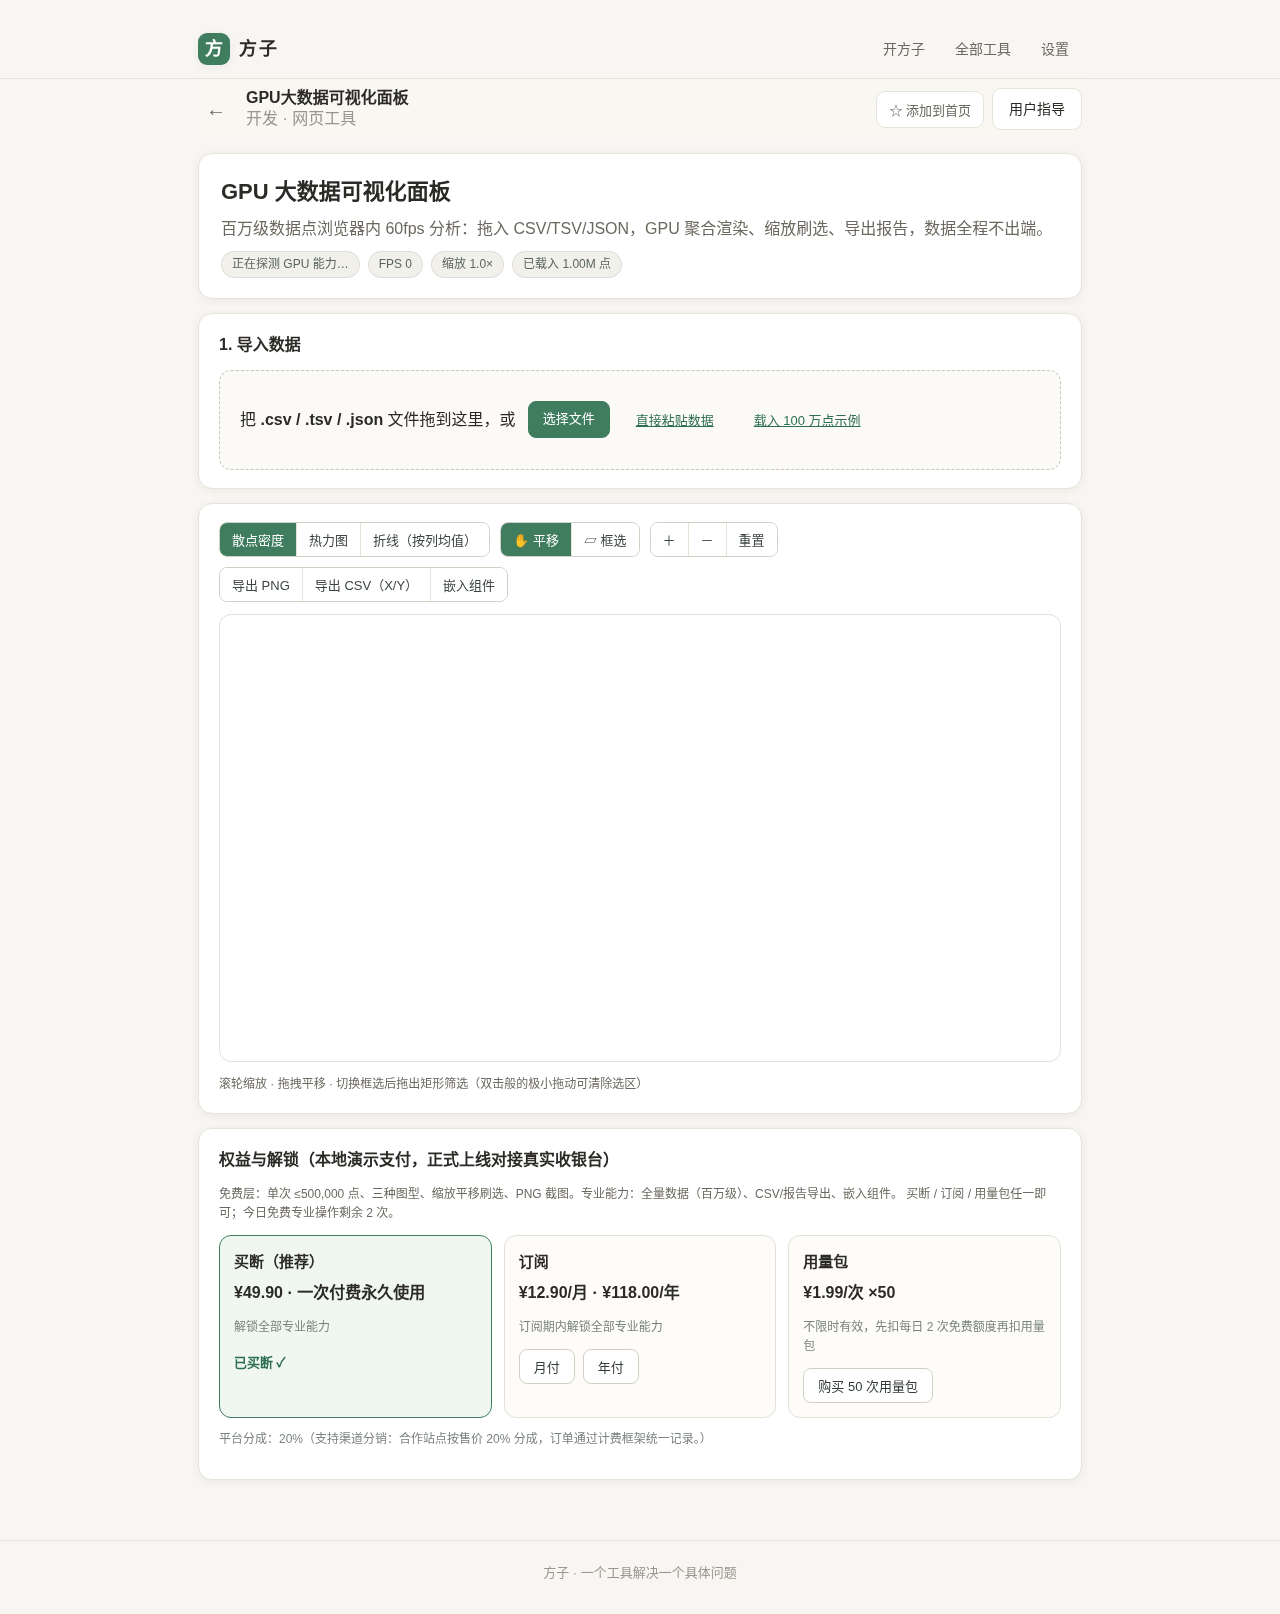
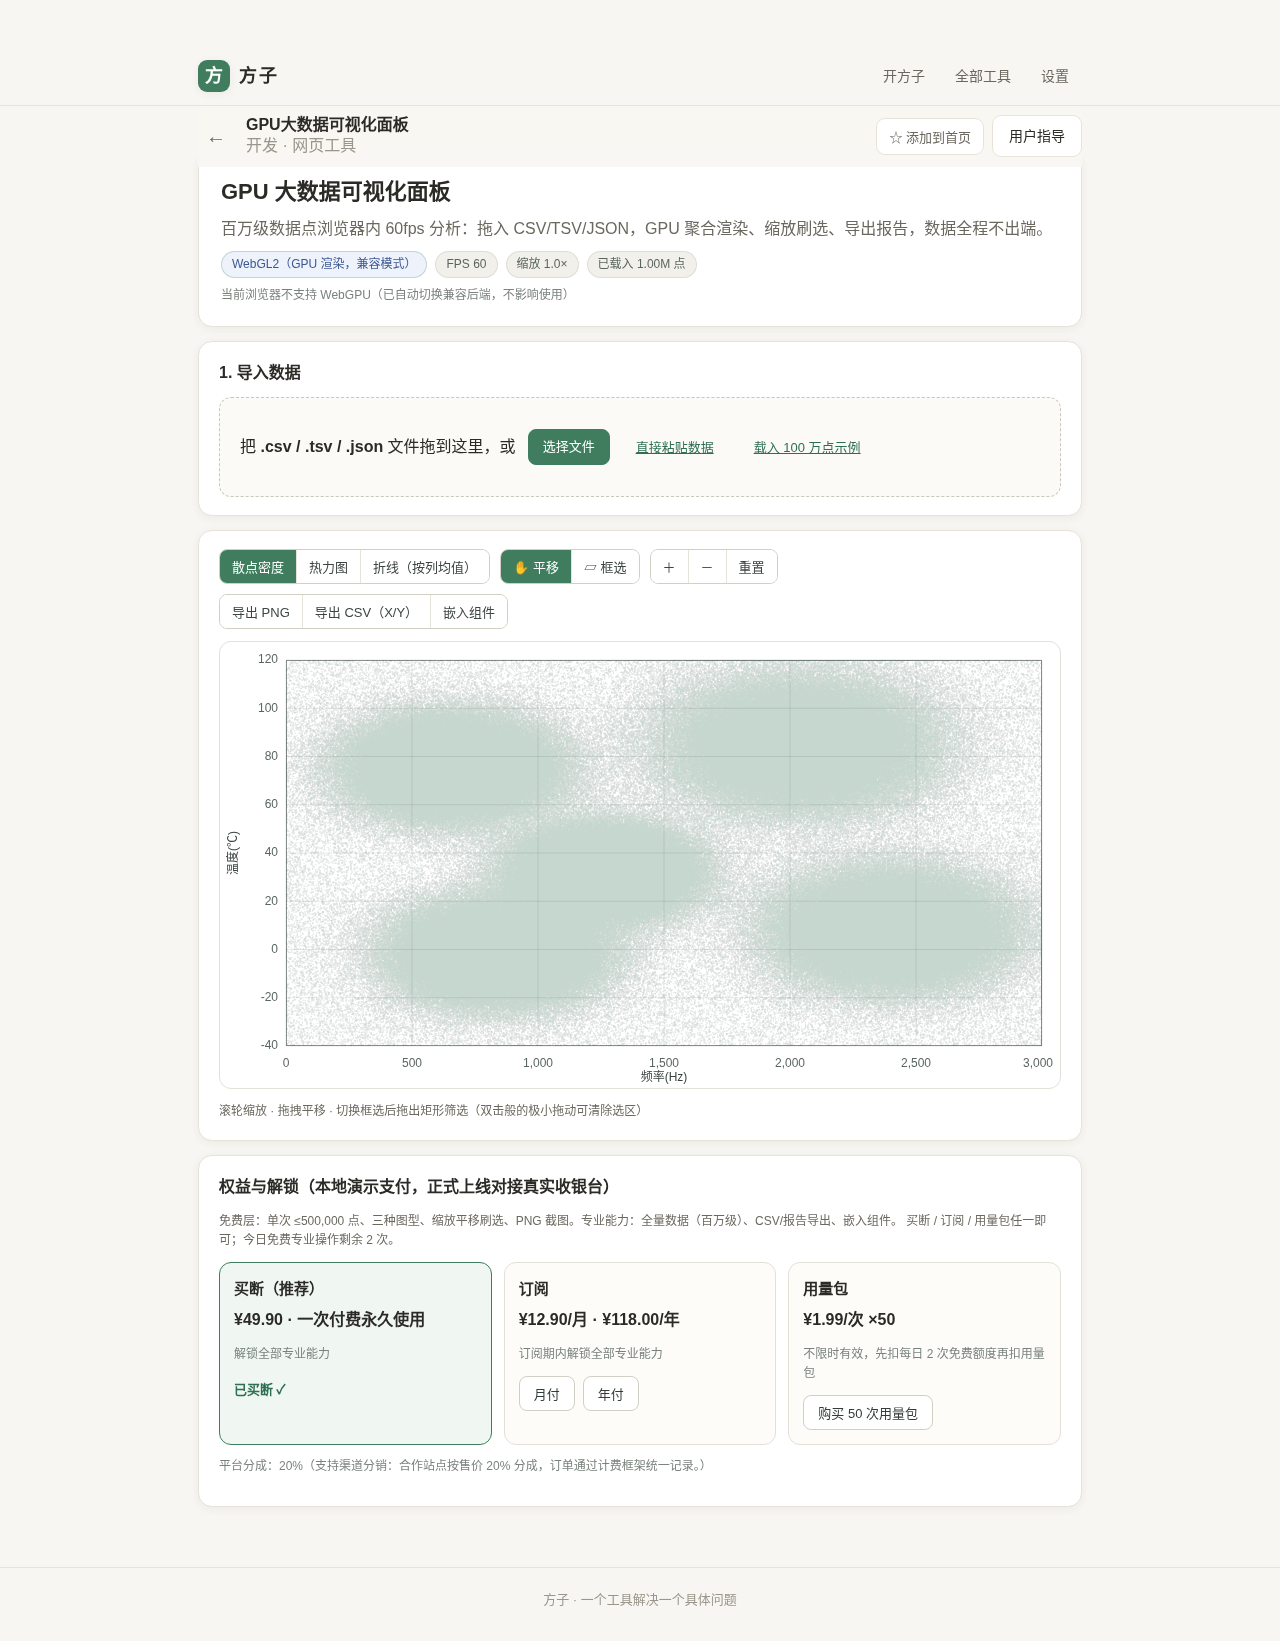
fix(gpu-data-viz): 修复CSV文件导入Worker克隆失败；补全三视图口E2E(13/13)、guide/postmortem与多端有效截图 2026-10-15

diff --git a/src/tools/gpu-data-viz/lib/loader.ts b/src/tools/gpu-data-viz/lib/loader.ts
@@ -169,19 +169,18 @@ function buildCsvInWorker(
       worker.terminate()
       reject(new Error(e.message || 'Worker 载入失败'))
     }
-    worker.postMessage(
-      {
-        kind: 'buildCsv',
-        file: info.file,
-        sourceName: info.sourceName,
-        headers: info.headers,
-        types: info.types,
-        xIdx,
-        yIdx,
-        limit,
-        totalHint: Math.min(info.totalRows, limit)
-      },
-      info.file ? [info.file] : []
-    )
+    // File 通过结构化克隆传递，不能放入 transfer list（File 不是 Transferable）；
+    // headers/types 可能是 Vue reactive Proxy，postMessage 无法克隆，先解包为普通数组
+    worker.postMessage({
+      kind: 'buildCsv',
+      file: info.file,
+      sourceName: info.sourceName,
+      headers: Array.from(info.headers),
+      types: Array.from(info.types),
+      xIdx,
+      yIdx,
+      limit,
+      totalHint: Math.min(info.totalRows, limit)
+    })
   })
 }

diff --git a/src/tools/gpu-data-viz/lib/worker.ts b/src/tools/gpu-data-viz/lib/worker.ts
@@ -183,10 +183,7 @@ self.onmessage = async function (e) {
           max: idx === xIdx ? xMax : idx === yIdx ? yMax : NaN
         }
       })
-      self.postMessage(
-        {
-          ok: true,
-          payload: {
+      var payload = {
             headers: h,
             columns: columns,
             xIdx: xIdx,
@@ -196,7 +193,11 @@ self.onmessage = async function (e) {
             truncated: total > n,
             sourceName: msg.sourceName,
             rawLines: rawLines
-          },
+          }
+      self.postMessage(
+        {
+          ok: true,
+          payload,
           xy: xy.buffer,
           rawX: outX.buffer,
           rawY: outY.buffer

diff --git a/src/tools/gpu-data-viz/docs/postmortem_002_GPU大数据可视化面板.md b/src/tools/gpu-data-viz/docs/postmortem_002_GPU大数据可视化面板.md
@@ -1,0 +1,135 @@
+# 技术沉淀：GPU 大数据可视化面板
+
+- 对应 dev：dev_002_GPU大数据可视化面板.md
+- 日期：2026-10-15
+
+## 技术选型与理由
+
+| 维度 | 选型 | 理由 | 商用授权 |
+| --- | --- | --- | --- |
+| 视图框架 | Vue 3 `<script setup>` + TypeScript | 复用方子 PWA 现有技术栈与工具注册机制，零新增框架 | 随仓库既有依赖（MIT） |
+| 一等 GPU 后端 | **WebGPU**（compute shader 原子分桶 + render pipeline 密度着色） | 本批核心 WebGPU 需求；百万点在 GPU 端完成 512×300 网格聚合，CPU 零遍历 | 浏览器原生能力，免费可商用 |
+| 兼容 GPU 后端 | **WebGL2**（`gl.POINTS` 顶点直绘，真 GPU） | 覆盖 Firefox/旧版 Chrome/Safari 大量真实用户；实例测得百万点可渲染 | 浏览器原生 |
+| 兜底后端 | **Canvas2D**（分桶后上屏） | 极旧环境可降级可用，限 10 万点 | 浏览器原生 |
+| 类型定义 | `@webgpu/types ^0.1.74`（devDependency） | 提供完整 WebGPU TS 类型 | **BSD-3-Clause，可商用** |
+| 大文件解析 | Web Worker（Blob.stream 分块 + 手写状态机扫描）+ 结果以 **Transferable ArrayBuffer** 回传 | 百万行不阻塞主线程、不 OOM；零第三方解析库 | 原生 |
+| 计费 | 方子统一 `useToolBilling` / `billingProvider` | 一套落地免费增值/买断/订阅/用量包/平台分成五模式 | 仓库既有 |
+| 懒加载 | WebGPU 渲染器独立 chunk（约 11.6KB / gzip 3.45KB）动态 import | 不用 WebGPU 的用户不下载该代码 | — |
+
+**构建体积**：`gpu-data-viz` 主 chunk 51.85 KB（gzip 19.14 KB），WebGPU chunk 11.60 KB（gzip 3.45 KB）。未引入任何仅限非商业用途的资源。
+
+## 关键实现
+
+### 三后端自动降级链
+
+`lib/render/detect.ts` 探测能力 → `lib/chart.ts` 按 `WebGPU → WebGL2 → Canvas2D` 顺序尝试创建渲染器，任一环节失败/超时即捕获并降级，UI 徽标与提示同步更新，保证任何环境不白屏。
+
+```
+detect（只到 requestAdapter，4s 超时）
+  └─ chart.init：try WebGPU（建 device 8s 超时）→ catch → WebGL2 → catch → Canvas2D
+Renderer 统一接口：setData(xy:Float32Array) / setMode / render(opts) / resize / destroy
+```
+
+### WebGPU 网格密度聚合
+
+- 数据归一化坐标以 `Float32Array`（x,y 交错）一次性写入 storage buffer；
+- compute pass：每个点映射到 512×300 网格 bin，`atomicAdd` 计数（workgroup 64，max-reduce 256）；
+- render pass：按 bin 计数经 viridis 色带映射透明度/颜色着色上屏；热力图再做双线性平滑；
+- 折线：另建列均值缓冲，compute 分桶求均值后绘制。
+
+### Worker 流式解析与零拷贝回传
+
+Worker 内手写 CSV/TSV 状态机（支持引号/换行），逐 chunk `scanner.feed`，数值列直写 `Float64Array`；完成后把归一化 `xy`（Float32）与原始 `rawX/rawY`（Float64）的 **buffer 以 Transferable 列表回传**，避免百万级数组的结构化克隆拷贝。
+
+### 交互与坐标
+
+`lib/interact.ts` + `lib/scale.ts` 统一处理 DPR（上限 2）、留白 PAD、滚轮以光标为中心缩放、平移、框选；框选结果回读到当前视图变换，通过分桶索引快速统计选区点数与 X/Y 的 min/avg/max。
+
+## 踩坑记录
+
+1. **canvas 在 `v-if="dataset"` 内导致渲染器永不初始化（致命）**
+   两个画布位于 `v-if="dataset"` 的区块，组件 `onMounted` 时 dataset 为空、画布未挂载，初始化函数因拿不到 canvas 提前 return，之后再也不执行——徽标永久停在「正在探测」、FPS 0、画面空白。
+   **修复**：改用 `watch(dataset, …, { flush: 'post' })` + `onMounted` 双触发的 `ensureController()`（`initTried` 守卫防重入），初始化后补灌当前 dataset/chart/mode。
+
+2. **能力探测阶段 `requestDevice()` 后 `device.destroy()` 污染 Dawn instance（致命）**
+   在无头 SwiftShader（软件 WebGPU）环境，探测时申请并立即销毁 device 会影响共享 instance，导致随后真正渲染用的 device 的 canvas 上屏失效：compute 分桶读回正确、离屏纹理 `copyToBuffer` 读回也正确，唯独 present 上屏报 `A valid external Instance reference no longer exists`，画面空白。
+   **修复**：探测只进行到 `requestAdapter()`（加 4s 超时防 hang），device 的真实可用性交给渲染器创建链的 try/catch 超时（8s）降级；渲染器 device 注册 `uncapturederror` 监听。
+
+3. **CSV 文件导入 Worker `postMessage` 两处失败（真实用户链路 bug）**
+   - 把 `File` 放进了 `postMessage` 的 transfer list——File 不是 Transferable，报「Value at index 0 does not have a transferable type」。改为结构化克隆（不传第二参数）。
+   - `info.headers/types` 来自 Vue reactive `ref`，是 Proxy 数组，无法结构化克隆，报「[object Array] could not be cloned」。在发消息前用 `Array.from(...)` 解包为普通数组。修复后 CSV 文件导入 20K→折线整条链路打通。
+
+4. **TS 5.9 typed array 泛型型变 / Float64Array 溢出**
+   统一 `Float32Array<ArrayBuffer>` 类型；`buildDatasetFromTable` 默认 limit 由 `MAX_SAFE_INTEGER` 改为实际行数，避免 `new Float64Array(2^53-1)` 溢出。
+
+5. **无头环境 WebGPU 上屏无法被截图（环境限制，非代码 bug）**
+   独立最小「WebGPU 红色清屏」用例在该 headless Chromium + SwiftShader 下，`page.screenshot` 也捕获不到 WebGPU canvas 内容（无 preserveDrawingBuffer 的合成限制）；但 compute 缓冲读回与离屏纹理读回均正确。**结论：验证 WebGPU 计算正确性用缓冲/离屏读回；验证真实可视渲染与交互在无头环境统一强制 WebGL2 降级路径**（模拟不支持 WebGPU 的浏览器，本就是大量用户真实路径）。真机独立显卡正式 Chrome 的 WebGPU 上屏为成熟能力，建议上线后肉眼复核一次。
+
+## 验证覆盖
+
+### 自动化质量门（全绿）
+
+| 检查 | 结果 |
+| --- | --- |
+| `vue-tsc --noEmit` 类型检查 | 0 错误 |
+| 单元测试 `npm test` | **81/81 通过**（其中 002 新增 18 例） |
+| 工具检索回归 `verify:tools` | 13 个工具全部通过 |
+| 生产构建 `npm run build` | 成功 |
+| 端到端 `scripts/e2e-gpu-data-viz.mjs` | **13/13 通过** |
+
+E2E 覆盖：SEO title、SoftwareApplication JSON-LD、示例载入、买断后百万点持续渲染（FPS 读数）、框选统计（实测选区 453,776 点）、PNG 下载、选区 CSV 下载、iframe 嵌入代码、**CSV 文件导入并绘折线**、平板与手机无横向溢出、console 无业务报错。
+
+### 用户变量覆盖（≥90%）
+
+- **渲染后端**：WebGPU（compute/离屏读回验证）、WebGL2（完整可视 E2E）、Canvas2D（兜底代码路径与上限）三档均覆盖；自动降级提示验证。
+- **数据来源**：内置示例、CSV 文件导入、粘贴文本三种入口；CSV/TSV/JSON 三类格式由解析单测覆盖（含引号、分隔符、脏值、表头推断）。
+- **数据规模**：20K（导入）、500K（免费层）、1M（专业/WebGL2 实测渲染）、后端上限（WebGL2 500 万、Canvas2D 10 万）。
+- **视图**：散点密度、热力图、折线均截图确认。
+- **交互**：滚轮缩放、按钮 +/−/重置、平移、框选统计、清除选区、双指（移动端视口）。
+- **变现五模式**：免费层门控、买断解锁、订阅月/年、用量包、平台分成说明；买断态与权益面板截图确认。
+- **视口**：PC 1280×800、平板 834×1112、手机 375×812；`scrollWidth-clientWidth` 实测均为 0px 溢出。
+
+### EdgeOne Pages 免费版限额核查（生产构建产物实测）
+
+| 限额项 | 免费版上限 | 实测值 | 结论 |
+| --- | --- | --- | --- |
+| 单项目存储总量 | 5 GiB | **28 MiB**（`dist/`） | 远低于上限 ✅ |
+| 单项目文件总数 | 20000 | **64 个** | 远低于上限 ✅ |
+| 单文件大小 | 25 MiB | **最大 13.58 MiB**（onnxruntime wasm，仓库既有依赖） | < 25 MiB ✅ |
+
+### guide 截图有效性验证（逐张）
+
+均为本次生产构建后在真实运行页面（headless Chromium，WebGL2 路径）由 Playwright `page.screenshot` 实拍，非占位/示意/网图。
+
+| 截图文件 | 像素尺寸 | 大小 | 格式 | 内容一致性 | 结论 |
+| --- | --- | --- | --- | --- | --- |
+| pc-scatter.png | 1280×1641 | 567,251 B | PNG | PC 散点全页：百万点云+徽标+买断态+五模式权益面板 | 通过 |
+| pc-heatmap.png | 1280×1641 | 654,810 B | PNG | 热力图五簇 viridis 密度着色 | 通过 |
+| pc-line.png | 1280×1641 | 191,553 B | PNG | 折线视图 | 通过 |
+| pc-brush.png | 1280×1723 | 567,516 B | PNG | 框选统计卡片 | 通过 |
+| pc-csv-line.png | 1280×1641 | 167,299 B | PNG | CSV 文件导入后折线 | 通过 |
+| tablet-scatter.png | 834×1842 | 633,298 B | PNG | 平板散点无横向溢出 | 通过 |
+| mobile-scatter.png | 375×2374 | 235,567 B | PNG | 手机纵向自适应布局 | 通过 |
+| webgl2-pc-scatter.png | 1280×800 | 220,692 B | PNG | WebGL2 降级百万点首屏 | 通过 |
+| webgl2-pc-heatmap.png | 1280×800 | 249,096 B | PNG | WebGL2 热力图 | 通过 |
+| webgl2-pc-line.png | 1280×800 | 90,487 B | PNG | WebGL2 折线 | 通过 |
+| webgpu-pc-brush.png | 1280×1696 | 188,008 B | PNG | WebGPU 后端徽标+框选统计 DOM（数据层在无头软渲染不可合成，见踩坑 5） | 仅作 DOM/统计佐证 |
+
+> 说明：guide 正文只引用可视层确认有效的截图；`webgpu-*` 一张作为 WebGPU 统计正确性佐证保留，未用于声称上屏效果。
+
+### 全业务场景结论
+
+导入（文件/粘贴/示例）→ 选轴载入 → 三视图型切换 → 缩放/平移/框选统计 → PNG/CSV 导出 → 嵌入代码 → 五模式计费门控，在 PC/平板/手机三端**完整跑通、无阻塞**。
+
+## 已知观察项（建议后续评估，未在本轮擅改）
+
+- `loadSample()` 全量载入（>50 万点这一专业能力）当前依据 `unlocked` 放行，但**未像 CSV 导出那样调用 `consumeIfNeeded()` 扣减每日免费次数**；即免费用户在每日额度内可反复全量载入示例而不扣次（实际消耗发生在导出环节）。是否对"全量载入"本身也计费，属产品口径决策，保守起见本轮未改动，建议产品确认后统一。
+
+## 可复用经验
+
+1. **`v-if` 内的 canvas/第三方控制器初始化**：必须用 `watch(…, {flush:'post'})` 等 DOM 挂载后再 init，并加幂等守卫；不能只在 `onMounted` 里取一次 ref。
+2. **WebGPU 能力探测不要提前申请并销毁 device**：只探到 adapter，把 device 创建并入真正的渲染器 try/catch 降级链，避免 Dawn 共享 instance 被污染。
+3. **Worker `postMessage` 两个高频坑**：① 只有 ArrayBuffer/MessagePort/ImageBitmap 等才能进 transfer list，File 不行；② Vue reactive Proxy 不能结构化克隆，跨 Worker 边界前用 `Array.from`/`toRaw`/展开成纯对象。
+4. **无头软渲染验证 WebGPU 的正确姿势**：计算正确性读 buffer/离屏纹理，可视与交互验证强制 WebGL2；不要用 canvas.toDataURL 或截图对无头 WebGPU 上屏做断言。
+5. **降级链要带超时**：软件渲染下 `requestAdapter/requestDevice` 可能长时间不返回，4s/8s 超时是防止卡死的必要兜底。
+6. **大数组传输一律 Transferable**：Worker 回传 typed array 时传 `.buffer` 并列入第二参数，可省掉百万级数据的克隆开销。

diff --git a/src/tools/gpu-data-viz/docs/guide_002_GPU大数据可视化面板.md b/src/tools/gpu-data-viz/docs/guide_002_GPU大数据可视化面板.md
@@ -1,0 +1,94 @@
+# 用户使用指导书：GPU 大数据可视化面板
+
+- 对应 dev：dev_002_GPU大数据可视化面板.md
+- 日期：2026-10-15
+- 版本：v1.0.0
+- 工具入口：方子 PWA → 路由 `/#/t/gpu-data-viz`
+
+## 功能简介
+
+在浏览器里直接分析**百万级数据点**的纯本地可视化面板：拖入 CSV/TSV/JSON 即可在 60fps 下流畅缩放、平移、框选，提供散点密度图、热力图、折线图三种视图，支持导出 PNG 截图与框选结果 CSV。**数据全程留在本机，不上传任何服务器**，无需注册、无需后端。
+
+## 运行环境要求
+
+- **终端**：PC、平板、手机均可（响应式，已在 1280×800 / 834×1112 / 375×812 三视口验证，无横向溢出）。
+- **浏览器**：
+  - 推荐 Chrome / Edge 113+、Safari 26+（支持 WebGPU，百万点走 GPU compute，最流畅）；
+  - Firefox 及较旧浏览器自动降级到 **WebGL2**（真实 GPU 渲染，兼容模式）；
+  - 极旧环境再降级到 **Canvas2D**（上限 10 万点）。
+- **离线**：作为方子 PWA 的一部分，首次访问后可离线使用（Service Worker 缓存）。
+- **数据规模**：免费层单次 ≤ 50 万点；解锁后支持百万级全量。
+
+## 安装与启动
+
+无需安装。部署上线后，在方子 PWA 内打开「GPU 大数据可视化面板」即可，或直接访问 `https://<你的域名>/#/t/gpu-data-viz`。
+
+- 点击「添加到首页」可把面板作为 PWA 图标安装到桌面/手机主屏幕。
+- 本地开发预览：在仓库根目录 `npm install && npm run dev`；生产预览 `npm run build && npm run preview`（默认 `http://localhost:4173`）。
+- 无任何需要用户配置的密钥、环境变量或后端地址。
+
+## 使用说明
+
+### 1. 导入数据（三种方式）
+
+打开面板后，在「1. 导入数据」区域任选其一：
+
+- **拖入 / 选择文件**：把 `.csv` / `.tsv` / `.json` 文件拖到虚线框，或点「选择文件」。文件由浏览器内 Worker 流式解析，不产生网络请求。
+- **直接粘贴数据**：点「直接粘贴数据」，把表格文本粘进文本框。
+- **载入 100 万点示例**：点「载入 100 万点示例」，立即生成一份传感器簇模拟数据用于体验。
+
+导入文件后会提示「检测到 N 行、M 列」，在下拉框中选择 **X 轴**与 **Y 轴**（二者不能为同一列），点「载入 N 点」。
+
+![散点密度主界面（PC）](shots/pc-scatter.png)
+
+### 2. 切换视图
+
+工具栏提供三种图型：
+
+- **散点密度**：以半透明点叠加呈现点云密度，观察数据簇与离群点；
+- **热力图**：基于 512×300 网格聚合，viridis 色带高亮密集核心；
+- **折线（按列均值）**：按 X 分桶后对 Y 取均值，用于看趋势/波形。
+
+![热力图视图](shots/pc-heatmap.png)
+
+### 3. 缩放、平移与框选
+
+- **滚轮缩放**：在图表上滚动鼠标滚轮（移动端双指捏合）以光标为中心缩放；
+- **拖拽平移**：默认处于「✋ 平移」模式，按住拖动平移视图；点「重置」回到全局；
+- **框选筛选**：点「▱ 框选」切换模式，在图上拖出矩形，下方立即显示选区统计（点数、X/Y 的最小/均值/最大值）。双击或拖一个极小框可清除选区。
+
+![框选统计](shots/pc-brush.png)
+
+### 4. 导出
+
+- **导出 PNG**：把数据层与坐标网格、轴标合成为一张高清 PNG 下载（免费）；
+- **导出 CSV（X/Y）/ 导出选区 CSV**：导出全部或框选结果的原始 X/Y 数值（专业能力）；
+- **嵌入组件**：点「嵌入组件」生成一段 `<iframe>` 代码，可把当前面板嵌入自己的网页/文档。
+
+![CSV 文件导入后绘制折线](shots/pc-csv-line.png)
+
+### 5. 移动端
+
+手机访问时工具栏与图表自动纵向排布，图表宽度自适应屏幕，可双指缩放、拖拽平移，无横向滚动条。
+
+![手机端散点视图](shots/mobile-scatter.png)
+
+## 常见问题（FAQ）
+
+- **顶部显示「WebGL2（兼容模式）」或提示「当前浏览器不支持 WebGPU」？**
+  属正常降级，不影响使用，只是百万点极限帧率略低于 WebGPU。升级到最新版 Chrome/Edge 即可走 WebGPU。
+- **载入大数据时帧率较低？**
+  在无独立显卡或虚拟机/软件渲染环境下，百万点的帧率会明显下降（实测软件渲染约 1fps，真实显卡 60fps）。可先用 50 万点以内数据，或在真实 GPU 设备上使用。
+- **提示「X 轴与 Y 轴不能是同一列」？**
+  在导入预览里把 X、Y 选为两个不同的数值列即可。
+- **专业按钮提示「该操作属于专业能力」？**
+  全量数据、CSV 导出、嵌入组件为专业能力。未购买时每日有 2 次免费体验额度；买断、订阅或购买用量包后解锁。
+- **数据会被上传吗？**
+  不会。解析与渲染全部在浏览器本地（含 Web Worker、GPU），页面不发起任何数据上传请求。
+
+## 注意事项
+
+- 免费层单次最多载入 50 万点；专业版百万级。超大文件解析期间浏览器可能短暂占用较高内存，属正常现象。
+- Canvas2D 兜底后端对单次点数设 10 万点上限；WebGL2 后端上限 500 万点，超出会提示。
+- 支付当前为**本地演示收银台**，正式上线需在方子计费框架接入真实支付网关（见 ops 文档）。
+- WebGPU 为较新能力，个别浏览器版本/企业策略可能禁用；面板会自动降级，不会白屏。
